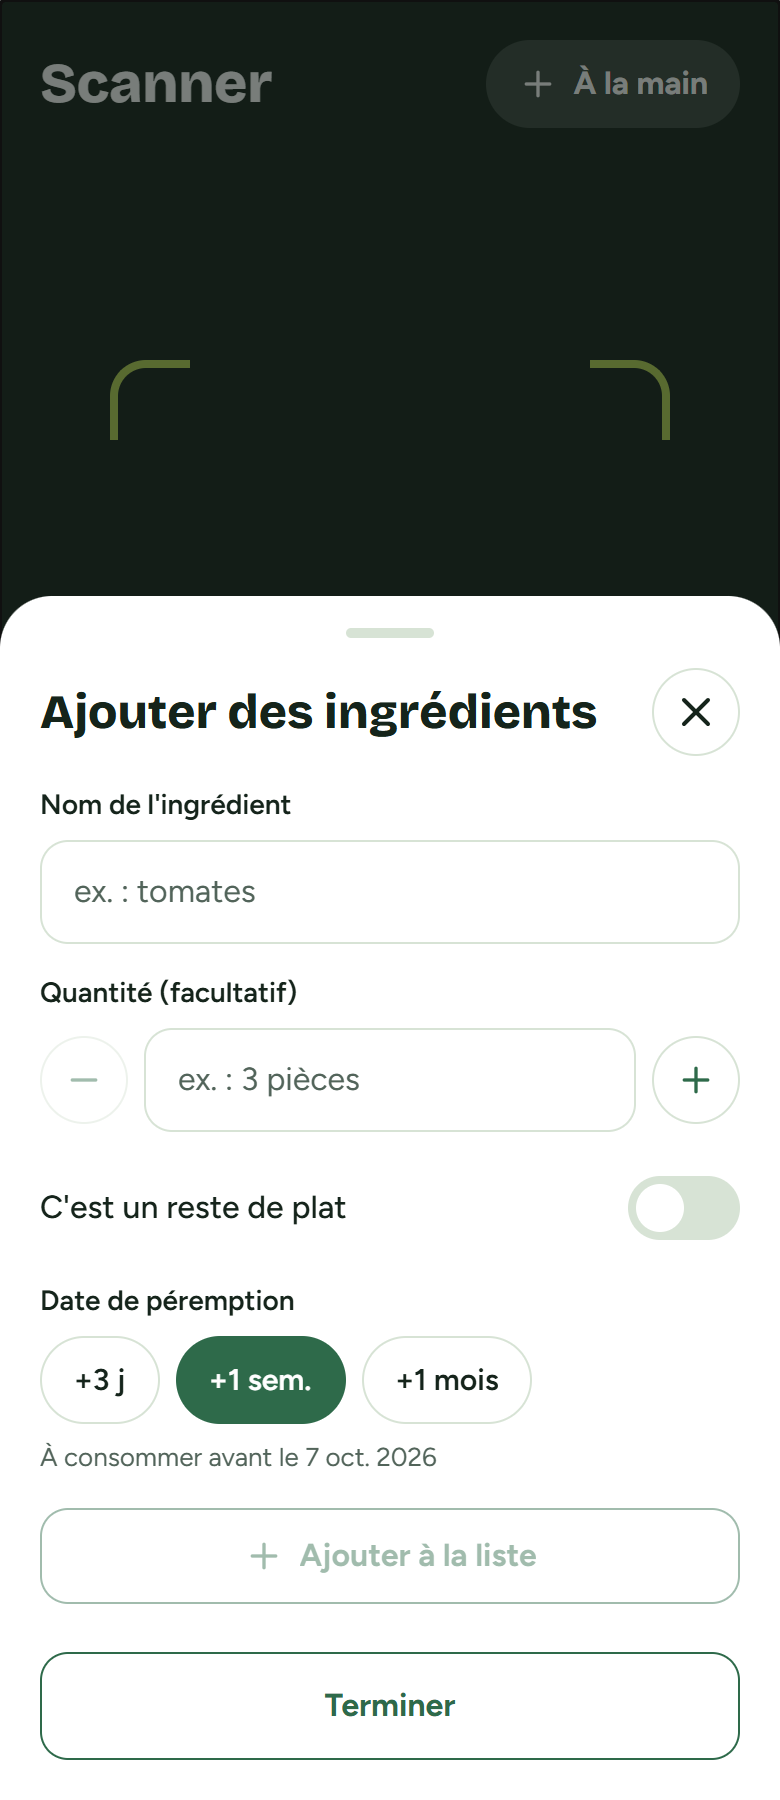
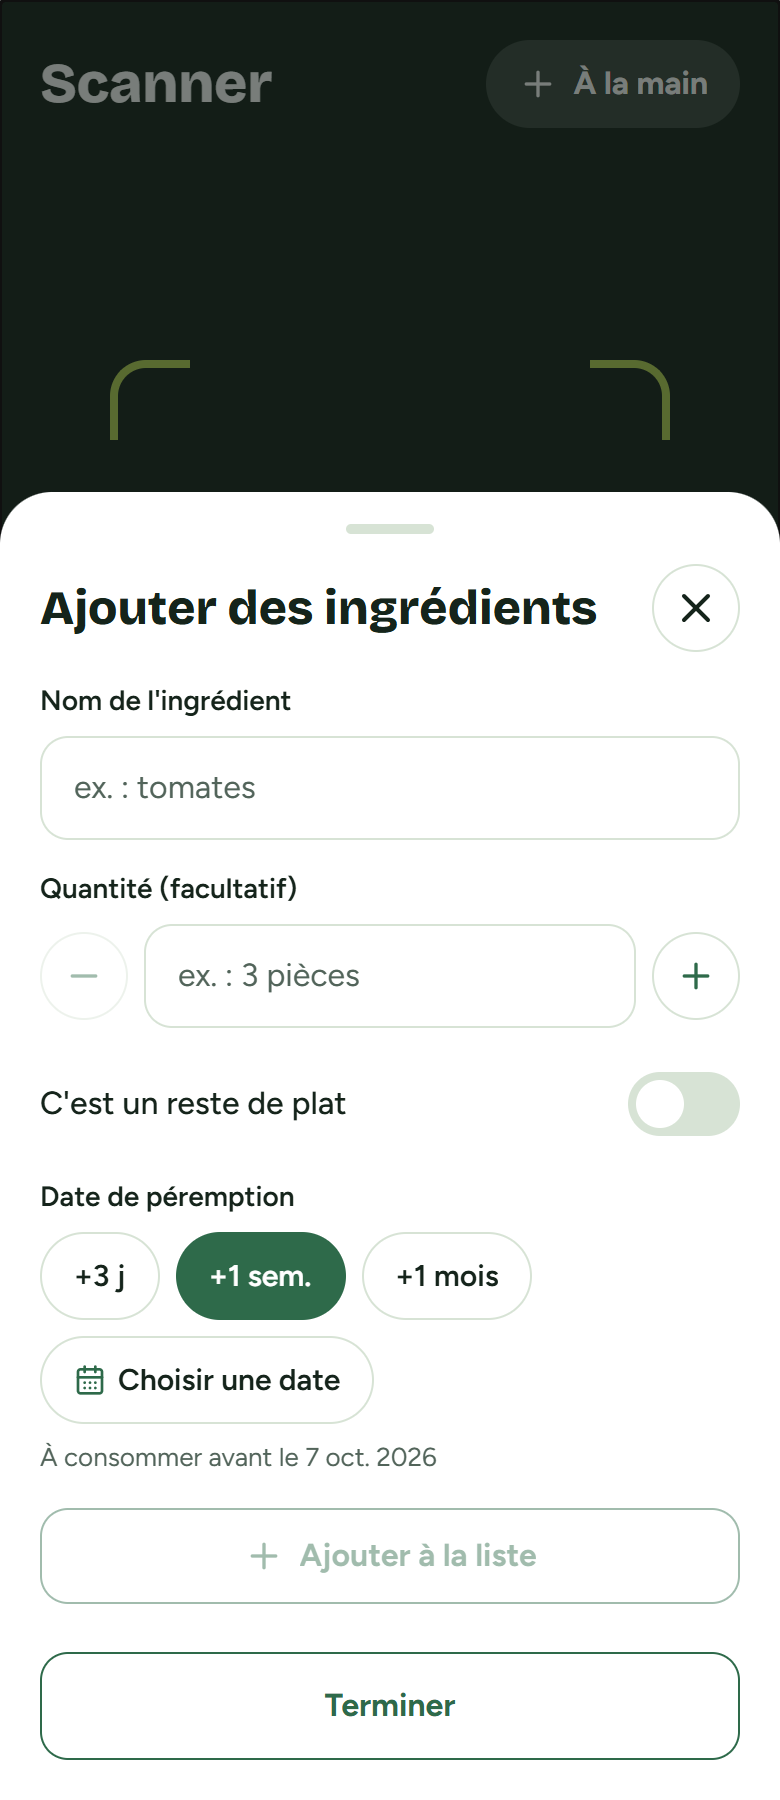
Phase 7 : captures refaites après les corrections (garde-manger sans « Tout effacer », Scanner sans bouton rond, date au choix, saisons courtes, « Tout ajouter aux courses », « 1 L », « pièces ») ; PLAN (journal) et PROJECT_CONTEXT à jour

diff --git a/PLAN.md b/PLAN.md
@@ -560,4 +560,9 @@ Ancienne phase 8.
 | 30/09/2026 | 2 recettes au lieu de 3 : pas une recette écartée, mais la règle du nombre de recettes (1 recette pour 1 ou 2 aliments choisis, 2 pour 3 à 5, 3 au-delà) ; la capture avait 3 aliments choisis. Désormais, une explication s'affiche sous les résultats ; une recette écartée par le serveur est redemandée une fois (titres déjà proposés exclus), sinon expliquée | Essai réel en régime végétarien : Groq signalait la crème fraîche et le beurre comme non végétariens, toutes les recettes étaient écartées (« aucune recette compatible »). Produits laitiers, œufs et miel toujours permis quand le nom entier en est un ; ensuite 3 recettes sur 3, étiquette « Végétarien » affichée |
 | 30/09/2026 | Quantités des courses venues d'une recette vérifiées dans l'app (« Oignon 1 pièce », « Coriandre 1 bouquet ») ; bouton « Tout ajouter aux courses » (l'ancien libellé était coupé sur un écran étroit) | |
 | 30/09/2026 | Icônes par catégorie d'aliment (lucide) dans la même pastille, teinte douce par grande famille (végétal, protéines, frais, épicerie, assaisonnement, restes) dans les jetons de `theme.ts` ; marmite pour les restes, feuille pour une catégorie inconnue | Captures de `docs/design/implemente/` refaites, écrans sans maquette compris (aliment en plusieurs lots, fiche produit, ajout d'ingrédients, confirmation du scan, « Mes recettes ») |
+| 30/09/2026 | « Tout effacer » retiré du garde-manger (il supprimait définitivement tout le garde-manger du foyer, lots des autres membres compris) ; « Vider le garde-manger » dans les Réglages : confirmation avec le nombre d'aliments et de lots, et « pour tous les membres » dans un foyer partagé ; retrait annulable 24 heures dans « Récemment retirés » | |
+| 30/09/2026 | Sur l'écran Scanner, onglet Scanner simple (le bouton rond se superposait au déclencheur) ; « Choisir une date » aussi sur le web (il n'y était masqué que là) | |
+| 30/09/2026 | Produits laitiers, œufs et miel acceptés automatiquement pour le seul régime végétarien, jamais en vegan ni sans lactose (tests pour chaque cas) | |
+| 30/09/2026 | Saison des fiches en quelques mots (« Juillet à octobre », « Toute l'année » seul) : 95 fiches réécrites (`scripts/food-facts/fix-seasons.mjs`, après sauvegarde), 0 échec | Saisons selon la région de l'utilisateur : v1.1 |
+| 30/09/2026 | « X à sauver » : garde-manger actuel, lot disparu remplacé par le même aliment retrouvé par son nom, badge masqué à 0 ; 2 recettes pour 1 ou 2 aliments, 3 à partir de 3 ; litre « L », « pièce » par défaut pour une quantité sans unité | Outils de développement des Réglages et page /dev/status : masqués hors développement (`__DEV__`), vérification ajoutée en phase 14 |
 | | *(résultat du test Gemini vs Clarifai)* | |

diff --git a/PROJECT_CONTEXT.md b/PROJECT_CONTEXT.md
@@ -237,7 +237,9 @@ Le garde-manger appartient à un **foyer** (visible par ses membres) ; recettes,
 - Icônes des aliments : `components/pantry/FoodIcon.tsx` (catégorie → icône lucide, famille → `colors.foodFamilies`).
 - Dates : relatives jusqu'à 7 jours (`RELATIVE_DAYS`), date réelle au-delà (`shortDate`, `lib/expiry.ts`).
 - Génération : recette écartée redemandée une fois ; `rejected` et `fewIngredients` dans la réponse, expliqués sous les résultats ; végétarien : produits laitiers, œufs et miel toujours permis (`isDietException`).
-- Fiches aliments : atouts de trois mots au plus (`isShortNutrition`), réécriture des fiches existantes par `scripts/food-facts/fix-nutrition.mjs`.
+- Fiches aliments : atouts de trois mots au plus (`isShortNutrition`), saison en quelques mots (`SEASON_MAX`) ; réécriture des fiches existantes par `scripts/food-facts/fix-nutrition.mjs` et `fix-seasons.mjs`.
+- « Vider le garde-manger » dans les Réglages (retrait annulable par `delete_ingredients_with_undo`) ; plus de « Tout effacer » dans le garde-manger.
+- Quantités : litre « L », « pièce » par défaut sans unité (`formatQuantity`) ; « X à sauver » recalculé sur le garde-manger actuel (`hooks/usePantryUrgency.ts`) ; 2 recettes pour 1 ou 2 aliments, 3 au-delà (`recipeCount`).
 
 ## 5. État actuel et problèmes connus
 
